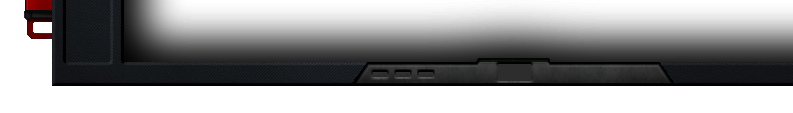
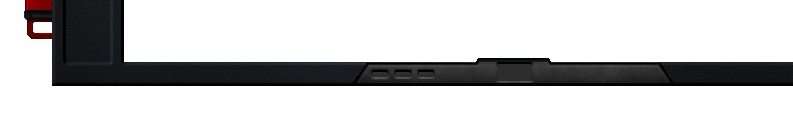
Version 7.3.98 (07.08.2023) - UPDATED: Window resize behaviour - UPDATED: Dependencies

diff --git a/net.clanwolf.starmap.client/src/main/java/net/clanwolf/starmap/client/gui/ResizeHelper.java b/net.clanwolf.starmap.client/src/main/java/net/clanwolf/starmap/client/gui/ResizeHelper.java
@@ -32,7 +32,6 @@ import javafx.event.EventType;
 import javafx.scene.Cursor;
 import javafx.scene.Node;
 import javafx.scene.Parent;
-import javafx.scene.Scene;
 import javafx.scene.control.Label;
 import javafx.scene.input.MouseEvent;
 import javafx.stage.Stage;
@@ -68,8 +67,7 @@ public class ResizeHelper {
 		node.addEventHandler(MouseEvent.MOUSE_DRAGGED, listener);
 		node.addEventHandler(MouseEvent.MOUSE_EXITED, listener);
 		node.addEventHandler(MouseEvent.MOUSE_EXITED_TARGET, listener);
-		if (node instanceof Parent) {
-			Parent parent = (Parent) node;
+		if (node instanceof Parent parent) {
 			ObservableList<Node> children = parent.getChildrenUnmodifiable();
 			for (Node child : children) {
 				addListenerDeeply(child, listener);
@@ -79,8 +77,7 @@ public class ResizeHelper {
 
 	static class ResizeListener implements EventHandler<MouseEvent> {
 		private final Stage stage;
-		private Cursor cursorEvent = Cursor.DEFAULT;
-		private int border = 0;
+		//private int border = 0;
 		private double startX = 0;
 		private double startY = 0;
 
@@ -91,14 +88,17 @@ public class ResizeHelper {
 		@Override
 		public void handle(MouseEvent mouseEvent) {
 			EventType<? extends MouseEvent> mouseEventType = mouseEvent.getEventType();
-			Scene scene = stage.getScene();
+			//Scene scene = stage.getScene();
 
-			double mouseEventX = mouseEvent.getSceneX(), mouseEventY = mouseEvent.getSceneY(), sceneWidth = scene.getWidth(), sceneHeight = scene.getHeight();
+			double mouseEventX = mouseEvent.getSceneX();
+			double mouseEventY = mouseEvent.getSceneY();
+			//double sceneWidth = scene.getWidth();
+			//double sceneHeight = scene.getHeight();
 
 			if (mouseEvent.getTarget() instanceof Label label && label.getId() != null && label.getId().equals("ResizerControl")) {
 
 				// We allow resize only on the resize area on the bottom right corner (South-East)
-				cursorEvent = Cursor.SE_RESIZE;
+				Cursor cursorEvent = Cursor.SE_RESIZE;
 
 				if (MouseEvent.MOUSE_PRESSED.equals(mouseEventType)) {
 					if (initialWidth == null) {
@@ -118,6 +118,7 @@ public class ResizeHelper {
 								if (stage.getHeight() > initialHeight || mouseEventY < 0) {
 									double newHeight = stage.getY() - mouseEvent.getScreenY() + stage.getHeight();
 									if (newHeight >= initialHeight) {
+										// Snap to min height
 										if (newHeight > 630 && newHeight < 650) {
 											newHeight = 630;
 										}
@@ -130,6 +131,7 @@ public class ResizeHelper {
 								if (stage.getHeight() > initialHeight || mouseEventY + startY - stage.getHeight() > 0) {
 									double newHeight = mouseEventY + startY;
 									if (newHeight >= initialHeight) {
+										// Snap to min height
 										if (newHeight > 630 && newHeight < 650) {
 											newHeight = 630;
 										}
@@ -146,6 +148,7 @@ public class ResizeHelper {
 								if (stage.getWidth() > initialWidth || mouseEventX < 0) {
 									double newWidth = stage.getX() - mouseEvent.getScreenX() + stage.getWidth();
 									if (newWidth >= initialWidth) {
+										// Snap to min width
 										if (newWidth > 1030 && newWidth < 1050) {
 											newWidth = 1030;
 										}
@@ -158,6 +161,7 @@ public class ResizeHelper {
 								if (stage.getWidth() > initialWidth || mouseEventX + startX - stage.getWidth() > 0) {
 									double newWidth = mouseEventX + startX;
 									if (newWidth > initialWidth) {
+										// Snap to min width
 										if (newWidth > 1030 && newWidth < 1050) {
 											newWidth = 1030;
 										}

diff --git a/net.clanwolf.starmap.server/src/main/java/net/clanwolf/starmap/server/persistence/EntityManagerHelper.java b/net.clanwolf.starmap.server/src/main/java/net/clanwolf/starmap/server/persistence/EntityManagerHelper.java
@@ -32,8 +32,6 @@ import jakarta.persistence.Query;
 import org.slf4j.Logger;
 import org.slf4j.LoggerFactory;
 
-
-//import javax.persistence.EntityManagerFactory;
 import jakarta.persistence.EntityManagerFactory;
 import java.io.FileNotFoundException;
 import java.io.IOException;
@@ -62,7 +60,8 @@ public class EntityManagerHelper {
 				throw new FileNotFoundException("Auth-Property file '" + authFileName + "' not found in classpath.");
 			}
 		} catch (IOException ioe) {
-			ioe.printStackTrace();
+			//ioe.printStackTrace();
+			logger.error("Error in EntityManager.", ioe);
 		}
 
 		Map<String, String> properties = new HashMap<>();
@@ -92,8 +91,8 @@ public class EntityManagerHelper {
 			}
 			logger.info("Hibernate cache cleared succesfully.");
 		} catch (Exception e) {
-			e.printStackTrace();
-			logger.error("Hibernate cache NOT cleared.");
+			//e.printStackTrace();
+			logger.error("Hibernate cache NOT cleared.", e);
 		}
 	}
 
@@ -106,9 +105,10 @@ public class EntityManagerHelper {
 			manager = emf.createEntityManager();
 			emMap.put(userID, manager);
 
-		} else {
-//			logger.info("Found EntityManager for UserPOJO ID: " + userID);
 		}
+//		else {
+//			logger.info("Found EntityManager for UserPOJO ID: " + userID);
+//		}
 		return manager;
 	}
 
@@ -131,8 +131,8 @@ public class EntityManagerHelper {
 			}
 			logger.info("Refresh successful");
 		} catch (Exception re) {
-			logger.error("Refresh failed");
-			re.printStackTrace();
+			//re.printStackTrace();
+			logger.error("Refresh failed", re);
 			throw re;
 		}
 	}
